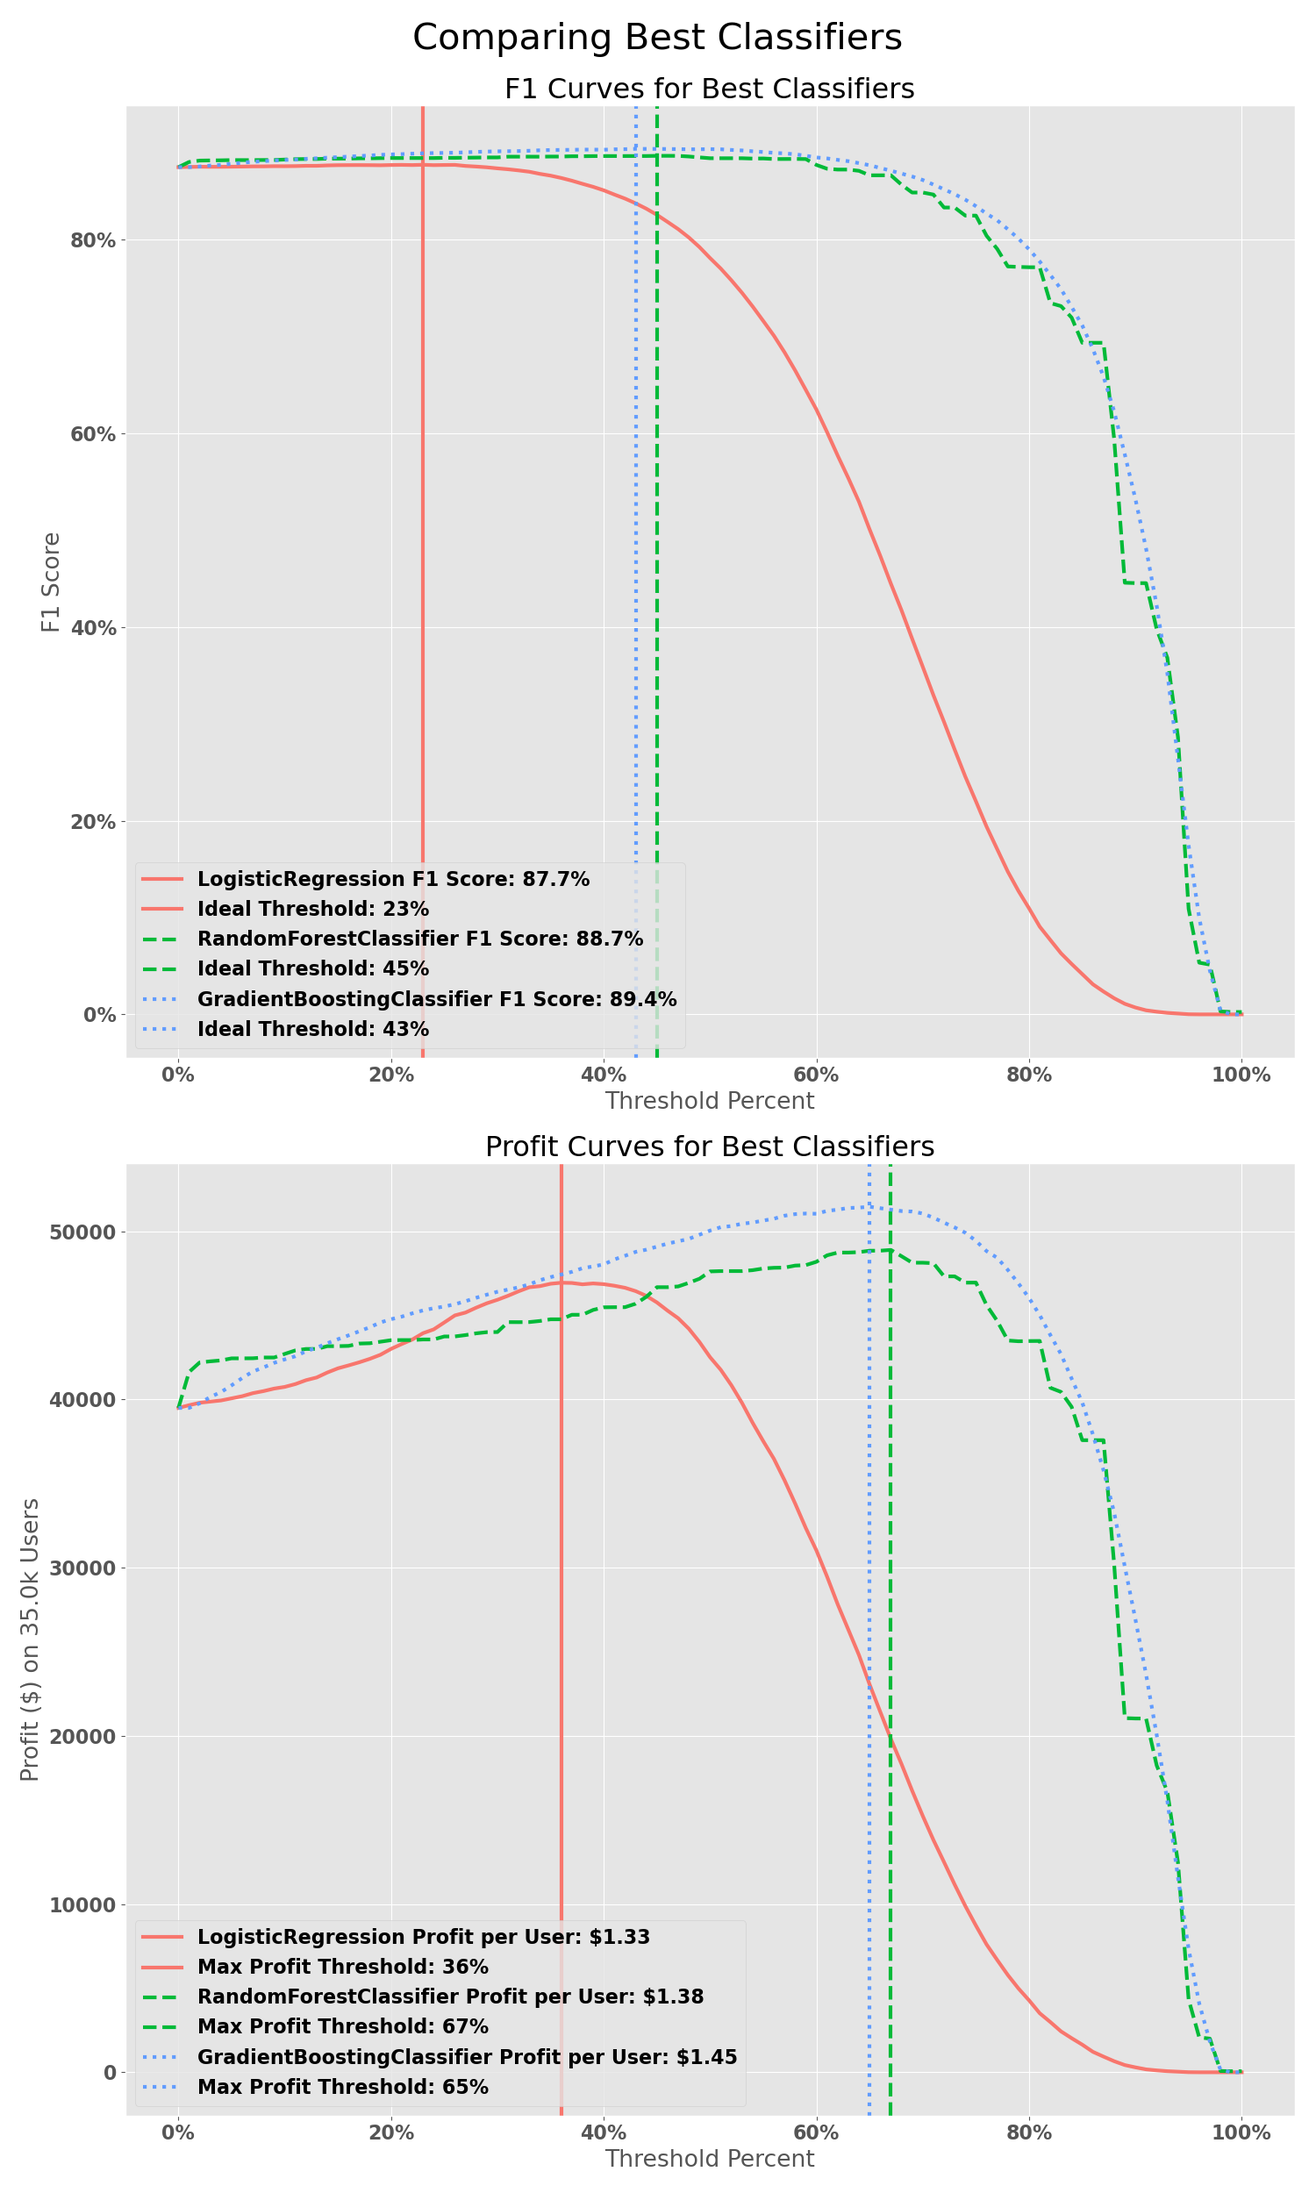
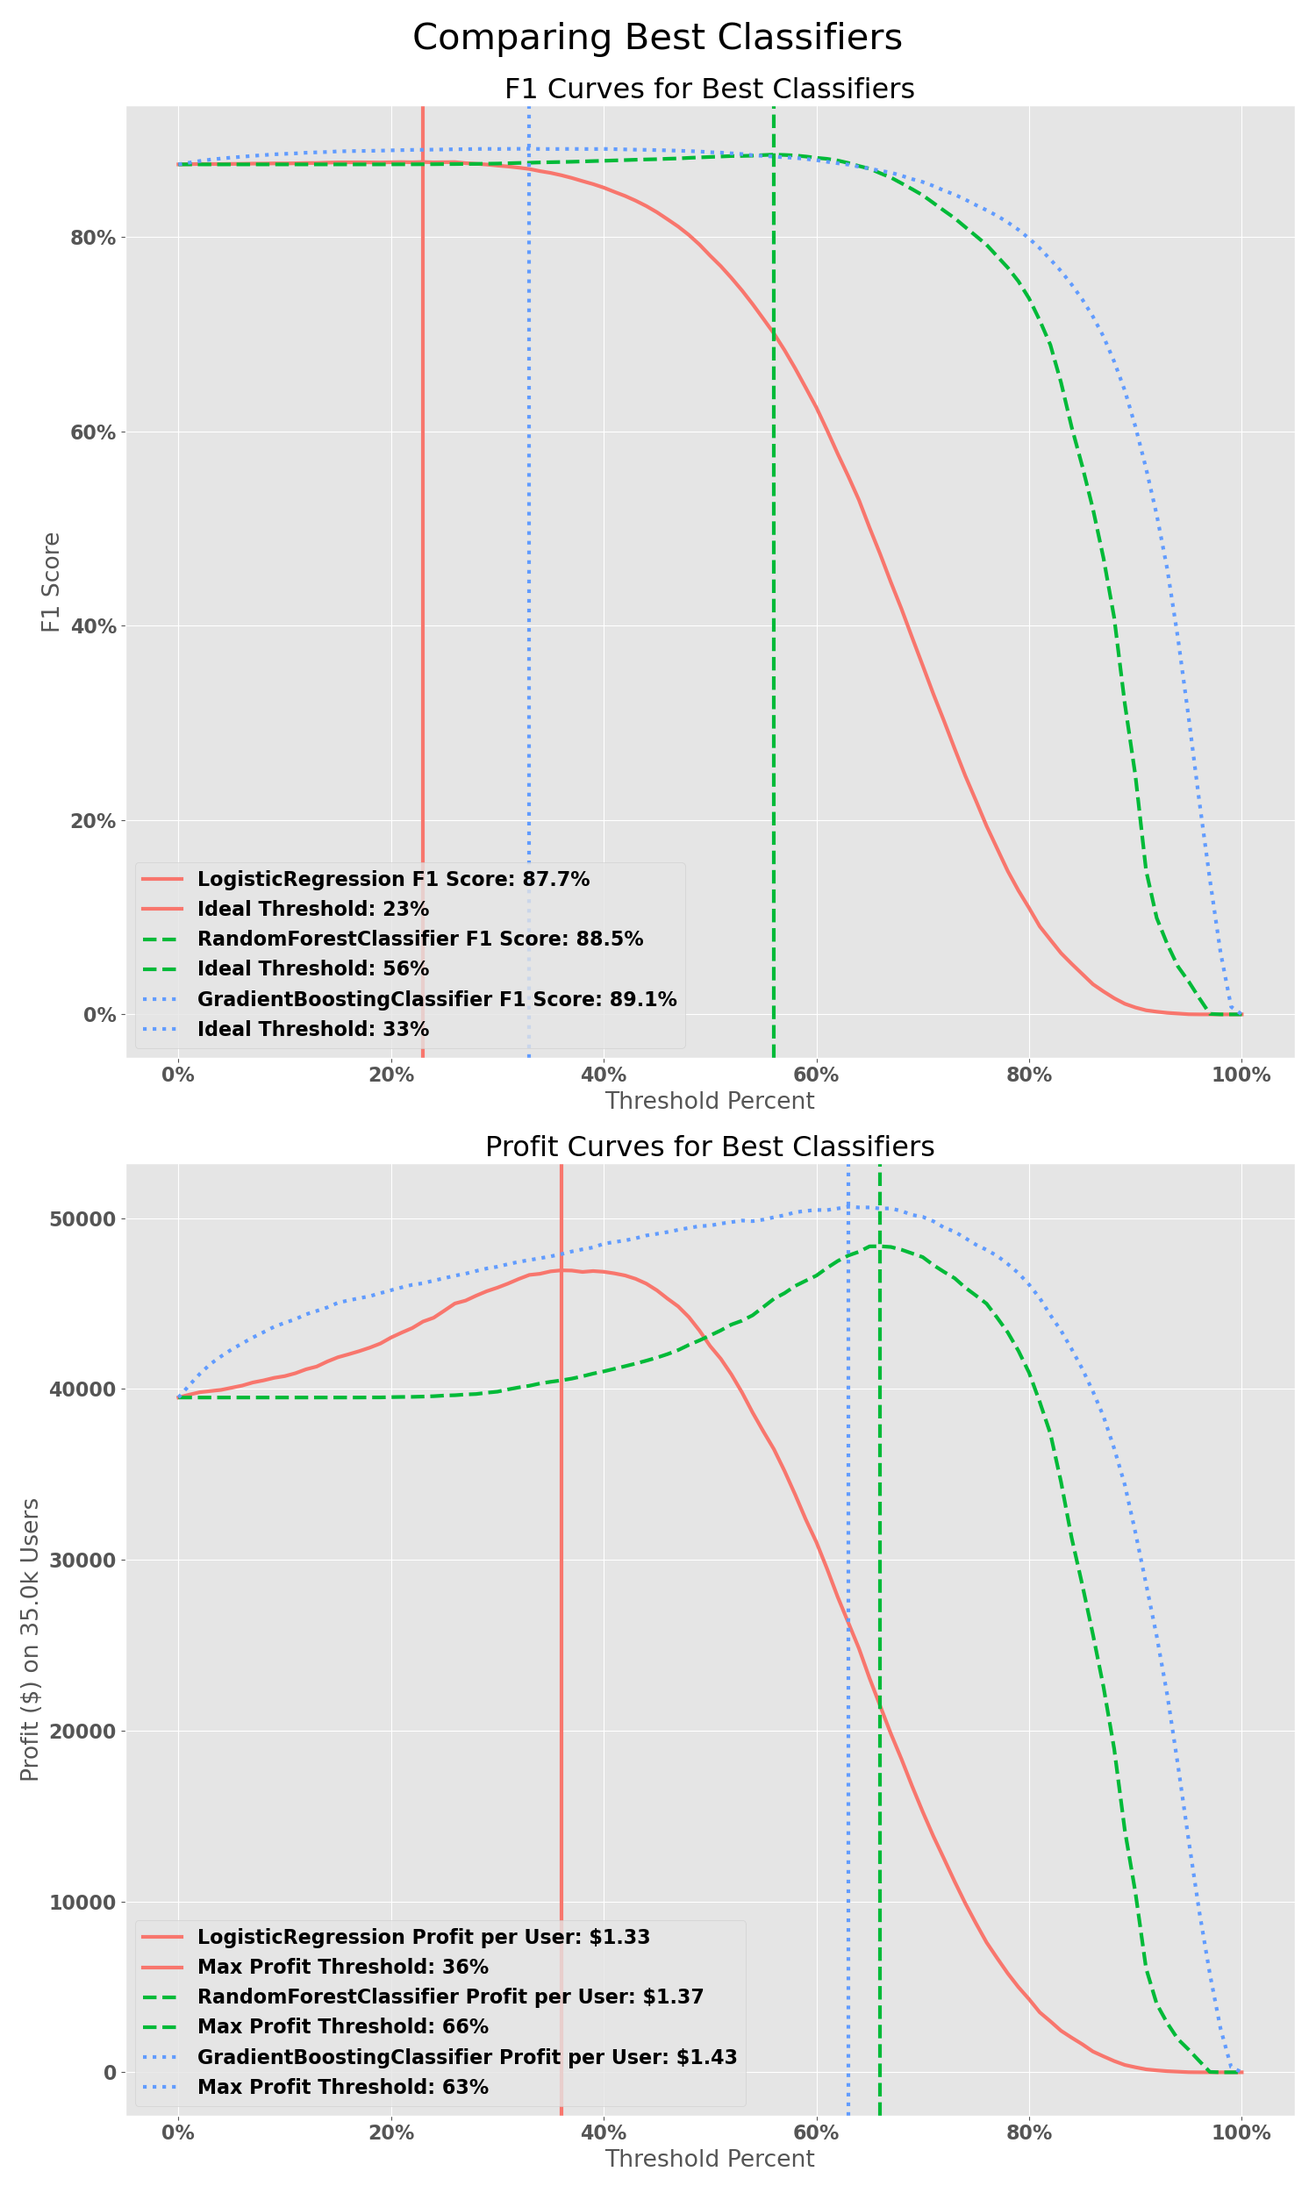
Added LR proba predictions to GB features

diff --git a/src/train_test.py b/src/train_test.py
@@ -79,26 +79,8 @@ class Churn_Model(object):
         print(f"Best {scoring_type} Score for {classifier_name}: {self.model_search.best_score_:.4f}")
 
         self.best_model = self.model_search.best_estimator_
-
-class Churn_Plot(object):
-
-    def __init__(self, classifier, X_test, y_test):
-        """ Initialize an instance of the Churn_Plot class given a classifier and number of days to use to 
-            classify a user as "churned"
-        Args:
-            classifier (sklearn model): The type of classifier to use in the model. Examples include Logisitic 
-                                        Regression, RandomForestClassifier, and GradientBoostingClassifier.
-            X_test (Pandas DataFrame): The predictor values to use in performance evaluation
-            y_test (Pandas Series): The target values to use to measure performance
-
-        Returns:
-            None
-            Instantiates a Churn_Model class 
-        """
-        self.classifier = classifier
-        self.X_test = X_test
-        self.y_test = y_test
-        self.y_probs = self.classifier.predict_proba(self.X_test)[:,1] 
+        self.y_train_probs = self.best_model.predict_proba(self.X_train)[:,1] 
+        self.y_test_probs = self.best_model.predict_proba(self.X_test)[:,1] 
 
     def plot_model_roc(self, ax, plot_kwargs={}):
         """ Plots the ROC Curve for a classifier given the test data and axis
@@ -111,10 +93,10 @@ class Churn_Plot(object):
             None
             Modifies ax by plotting the ROC curve from the best classifier.
         """
-        auc_score = roc_auc_score(self.y_test, self.y_probs)
-        fpr, tpr, threshold = roc_curve(self.y_test, self.y_probs)
+        auc_score = roc_auc_score(self.y_test, self.y_test_probs)
+        fpr, tpr, threshold = roc_curve(self.y_test, self.y_test_probs)
         roc_df = pd.DataFrame(zip(fpr, tpr, threshold), columns = ['fpr', 'tpr', 'threshold'])
-        ax.plot(roc_df.fpr, roc_df.tpr, label=f"{self.classifier.__class__.__name__} AUC={auc_score:.3f}", **plot_kwargs)
+        ax.plot(roc_df.fpr, roc_df.tpr, label=f"{self.best_model.__class__.__name__} AUC={auc_score:.3f}", **plot_kwargs)
     
     def calc_profit_curve(self, tp_cost, fp_cost):
         """ Calculates the profit for a range of thresholds given the true and false positive costs.
@@ -131,7 +113,7 @@ class Churn_Plot(object):
         threshold_list = []
 
         for threshold in thresholds:
-            y_preds = (self.y_probs >= threshold).astype(int)
+            y_preds = (self.y_test_probs >= threshold).astype(int)
             tn, fp, fn, tp = confusion_matrix(self.y_test, y_preds).ravel()
             profit = tp * tp_cost + fp * fp_cost
             profit_list.append(round(profit, 2))
@@ -155,7 +137,7 @@ class Churn_Plot(object):
 
         max_profit = max(y_axis) / len(self.X_test)
         max_profit_line = x_axis[y_axis.index(max(y_axis))]
-        classifier_name = self.classifier.__class__.__name__
+        classifier_name = self.best_model.__class__.__name__
 
         ax.plot(x_axis, y_axis, label=f"{classifier_name} Profit per User: ${max_profit:.2f}", **plot_kwargs)
         ax.axvline(x=max_profit_line, label=f"Max Profit Threshold: {max_profit_line:.0%}", **plot_kwargs)
@@ -175,14 +157,14 @@ class Churn_Plot(object):
         f1_list = []
 
         for threshold in thresholds:
-            y_preds = (self.y_probs >= threshold).astype(int)
+            y_preds = (self.y_test_probs >= threshold).astype(int)
             f1 = f1_score(self.y_test, y_preds)
             f1_list.append(f1)
             threshold_list.append(threshold)
 
         max_f1_score = max(f1_list)
         max_threshold = threshold_list[f1_list.index(max(f1_list))]
-        classifier_name = self.classifier.__class__.__name__
+        classifier_name = self.best_model.__class__.__name__
 
         ax.plot(threshold_list, f1_list, label=f"{classifier_name} F1 Score: {max_f1_score:.1%}", **plot_kwargs)
         ax.axvline(x=max_threshold
@@ -232,65 +214,51 @@ if __name__ == '__main__':
     filename = 'original_churn'
     is_feature_selection = False
     feature_list = []
-    ## Only use first order columns
-    # column_tuple = ("first_30", "city", "signup_to")
-    # first_order_columns = rf_model.X_train.columns.to_series().str.startswith(column_tuple)]
-    
-    ## Only use select columns 
-    # feature_list = ['days_since_signup'
-    #                ,'first_30_day_orders'
-    #                ,'signup_to_order_hours'
         
     split_data = load_X_y(bucket_name, filename, is_feature_selection, feature_list)
 
     lr_model = Churn_Model(LogisticRegression(), split_data)
-    rf_model = Churn_Model(RandomForestClassifier(), split_data)
-    gb_model = Churn_Model(GradientBoostingClassifier(), split_data)
-
-    lr_model.convert_cat_to_int()
-    rf_model.convert_cat_to_int()
-    gb_model.convert_cat_to_int()
-    
     logistic_regression_grid = {'penalty': ['l1', 'l2']
                             ,'fit_intercept': [True, False]
                             ,'class_weight': [None, 'balanced']
                             ,'solver': ['liblinear']
-                            ,'max_iter': [50,100,200,500]
+                            ,'max_iter': [200,500]
                             }
-    
+    lr_model.convert_cat_to_int()
+    lr_model.fit_model(logistic_regression_grid, GridSearchCV, 'roc_auc')
+     
+    rf_model = Churn_Model(RandomForestClassifier(), split_data)
     random_forest_grid = {'max_depth': [2, 4, 8]
                         ,'max_features': ['sqrt', 'log2', None]
                         ,'min_samples_leaf': [1, 2, 4]
                         ,'min_samples_split': [2, 4]
                         ,'bootstrap': [True, False]
                         ,'n_estimators': [5,10,25,50,100,200]}
+    rf_model.fit_model(random_forest_grid, RandomizedSearchCV, 'roc_auc')
     
+    split_data[0]['lr_predictions'] = lr_model.y_train_probs
+    split_data[1]['lr_predictions'] = lr_model.y_test_probs
+    
+    gb_model = Churn_Model(GradientBoostingClassifier(), split_data)
     gradient_boosting_grid = {'learning_rate': [0.01, 0.05, 0.1, 0.2, 0.25]
                             ,'max_depth': [2, 4, 8]
-                            ,'subsample': [0.25, 0.5, 0.75, 1.0]
-                            ,'min_samples_leaf': [1, 2, 4]
                             ,'max_features': ['sqrt', 'log2', None]
+                            ,'min_samples_leaf': [1, 2, 4]
+                            ,'subsample': [0.25, 0.5, 0.75, 1.0]
                             ,'n_estimators': [5,10,25,50,100,200,250]}
-    
-    lr_model.fit_model(logistic_regression_grid, GridSearchCV, 'roc_auc')
-    rf_model.fit_model(random_forest_grid, RandomizedSearchCV, 'roc_auc')
     gb_model.fit_model(gradient_boosting_grid, RandomizedSearchCV, 'roc_auc')
-
-    X_test = split_data[1]
-    y_test = split_data[3]
 
     lr_plot_kwargs = {'linestyle':'-', 'linewidth': 3, 'color': '#F8766D'}
     rf_plot_kwargs = {'linestyle':'--', 'linewidth': 3, 'color': '#00BA38'}
     gb_plot_kwargs = {'linestyle':':', 'linewidth': 3, 'color': '#619CFF'}
     
-    classifiers = [lr_model.best_model, rf_model.best_model, gb_model.best_model]
+    classifiers = [lr_model, rf_model, gb_model]
     classifier_plot_kwargs = [lr_plot_kwargs, rf_plot_kwargs, gb_plot_kwargs]
 
     fig, ax = plt.subplots(figsize=(15,15))
     
     for classifier, kwargs in zip(classifiers, classifier_plot_kwargs):
-        model_plot = Churn_Plot(classifier, X_test, y_test)
-        model_plot.plot_model_roc(ax, kwargs)             
+        classifier.plot_model_roc(ax, kwargs)             
 
     ax.legend(loc='lower right')
     ax.yaxis.set_major_formatter(PercentFormatter(xmax=1.0))
@@ -306,9 +274,8 @@ if __name__ == '__main__':
     
     for classifier, kwargs in zip(classifiers, classifier_plot_kwargs):
         
-        model_plot = Churn_Plot(classifier, X_test, y_test)
-        model_plot.plot_f1_curve(axs[0], kwargs)             
-        model_plot.plot_profit_curve(axs[1], kwargs, tp_cost=2.99)
+        classifier.plot_f1_curve(axs[0], kwargs)             
+        classifier.plot_profit_curve(axs[1], kwargs, tp_cost=2.99)
     
     axs[0].legend(loc='lower left')
     axs[0].set_title(f"F1 Curves for Best Classifiers")                                                                    

diff --git a/src/best_model.py b/src/best_model.py
@@ -7,6 +7,7 @@ font = {'weight': 'bold'
        ,'size': 16}
 plt.rc('font', **font)
 from matplotlib.ticker import PercentFormatter, StrMethodFormatter
+from sklearn.linear_model import LogisticRegression
 from sklearn.ensemble import RandomForestClassifier, GradientBoostingClassifier
 from sklearn.inspection import plot_partial_dependence
 from sklearn.metrics import confusion_matrix, roc_auc_score, roc_curve, f1_score
@@ -26,6 +27,16 @@ if __name__ == '__main__':
     churn_model.convert_cat_to_int()
     X_train, X_test, y_train, y_test = churn_model.X_train, churn_model.X_test, churn_model.y_train, churn_model.y_test
     
+    best_lr = LogisticRegression(class_weight='balanced'
+                                ,fit_intercept=True
+                                ,max_iter=100
+                                ,penalty='l2'
+                                ,solver='liblinear')
+    
+    best_lr.fit(X_train, y_train)
+    X_train['lr_predictions'] = best_lr.predict_proba(X_train)[:,1]
+    X_test['lr_predictions'] = best_lr.predict_proba(X_test)[:,1]
+
     best_model = GradientBoostingClassifier(subsample=0.25
                                            ,n_estimators=200
                                            ,min_samples_leaf=2
@@ -34,19 +45,22 @@ if __name__ == '__main__':
                                            ,learning_rate=0.05)
 
     best_model.fit(X_train, y_train)
+
+    print(best_model.score(X_test, y_test))
+
     
-    feature_dict = {}
-    for feature, importance in zip(X_test.columns, best_model.feature_importances_):
-        feature_dict[feature] = importance
+    # feature_dict = {}
+    # for feature, importance in zip(X_test.columns, best_model.feature_importances_):
+    #     feature_dict[feature] = importance
 
-    print("| Feature                        | Importance % |  ")
-    print("|--------------------------------|--------------| ")
-    for feature in sorted(feature_dict, key=feature_dict.__getitem__, reverse=True):
-        print(f"| {feature.replace('_', ' ').title()} | {feature_dict[feature]:.1%} |")
+    # print("| Feature                        | Importance % |  ")
+    # print("|--------------------------------|--------------| ")
+    # for feature in sorted(feature_dict, key=feature_dict.__getitem__, reverse=True):
+    #     print(f"| {feature.replace('_', ' ').title()} | {feature_dict[feature]:.1%} |")
 
-    my_plot = plot_partial_dependence(best_model
-                                    ,features=[i for i in range(0,len(X_train.columns.tolist()))]
-                                    ,X=X_train
-                                    ,n_cols=4
-                                    ,feature_names=X_train.columns.tolist())
-    plt.show()
+    # my_plot = plot_partial_dependence(best_model
+    #                                 ,features=[i for i in range(0,len(X_train.columns.tolist()))]
+    #                                 ,X=X_train
+    #                                 ,n_cols=4
+    #                                 ,feature_names=X_train.columns.tolist())
+    # plt.show()

diff --git a/README.md b/README.md
@@ -55,6 +55,8 @@ Most of my data cleaning occurred when I was writing the query itself, which inc
 * Converting NaNs to -1 for ratings and 0 for late orders.
 * Calculating 30 day and last order metrics
 
+In order to use categorical string features like `city_name` or `acquisition_category` in my machine learning models, I needed to encode them to numerical features. I decided to use ordinal encoding where each label was assigned an integer from 0 to the # of unique labels.
+
 ## EDA
 My first step in EDA was to look at how churned and active user profiles differ along continuous and categorical predictors. In order to visualize their differences, I decided to use Kernel Density Estimates (KDE) plots for continuous variables and 100% Fill Bar Charts for categorical variables.
 
@@ -81,9 +83,98 @@ As you can see, there is very little difference in the best performing Gradient 
 
 ## Model Tuning & Performance
 
-In order to determine the best classifier to use along with the optimal hyperparameters, I used a combination of `GridSearchCV` on the Logistic Regression classifier and `RandomizedSearchCV` on the Random Forest and Gradient Boosting classifers. 
+My first step in determining the best classifier to use was to iterate through various hyperparameters to find which ones would give me the best result. I used a combination of `GridSearchCV` on the Logistic Regression classifier and `RandomizedSearchCV` on the Random Forest and Gradient Boosting classifers with the following hyperparameters: 
 
-![F1 Score and Profit Curve](images/original_roc_curves.png)
+<table>
+    <thead>
+        <tr>
+            <th>Classifier</th>
+            <th>Hyperparameters</th>
+            <th>Values</th>
+        </tr>
+    </thead>
+    <tbody>
+        <tr>
+            <td rowspan=5>Logisitic Regression</td>
+            <td>`penalty`</td>
+            <td>['l1', 'l2']</td>
+        </tr>
+        <tr>
+            <td>fit_intercept</td>
+            <td>[True, False]</td>
+        </tr>
+        <tr>
+            <td>class_weight</td>
+            <td>[None, 'Balanced']</td>
+        </tr>
+        <tr>
+            <td>solver</td>
+            <td>['liblinear']</td>
+        </tr>
+        <tr>
+            <td>max_iter</td>
+            <td>[200,500]</td>
+        </tr>
+        <tr>
+            <td rowspan=6>Random Forest</td>
+            <td>max_depth</td>
+            <td>[2, 4, 8]</td>
+        </tr>
+        <tr>
+            <td>max_features</td>
+            <td>['sqrt', 'log2', None]</td>
+        </tr>
+        <tr>
+            <td>min_samples_leaf</td>
+            <td>[1, 2, 4]</td>
+        </tr>
+        <tr>
+            <td>min_samples_split</td>
+            <td>[2, 4]</td>
+        </tr>
+        <tr>
+            <td>bootstrap</td>
+            <td>[True, False]</td>
+        </tr>
+        <tr>
+            <td>n_estimators</td>
+            <td>[5, 10, 25, 50, 100, 200]</td>
+        </tr>
+        <tr>
+            <td rowspan=6>Gradient Boosting</td>
+            <td>learning_rate</td>
+            <td>[0.01, 0.05, 0.1, 0.2, 0.25]</td>
+        </tr>
+        <tr>
+            <td>max_depth</td>
+            <td>[2, 4, 8]</td>
+        </tr>
+        <tr>
+            <td>max_features</td>
+            <td>['sqrt', 'log2', None]</td>
+        </tr>
+        <tr>
+            <td>min_samples_leaf</td>
+            <td>[1, 2, 4]</td>
+        </tr>
+        <tr>
+            <td>subsample</td>
+            <td>[0.25, 0.5, 0.75, 1.0]</td>
+        </tr>
+        <tr>
+            <td>n_estimators</td>
+            <td>[5, 10, 25, 50, 100, 200, 250]</td>
+        </tr>
+    </tbody>
+</table>
+
+After each iteration of finding the optimal hyperparameters, I took the results from the best model of predicting the probability of the positive class and added it to my features for training the next classifier. This had significant improvements on the Random Forest and Gradient Boosting classifiers.
+
+I decided to use the ROC AUC score to compare my models and plotting each one against the other. My best model achieved an AUC score of 0.XX on unseen data.
+
+![ROC Curve](images/original_roc_curves.png)
+
+Next, I wanted to look at which features contributed most to my model by comparing their feature importances. On the left side of the table are my feature importances using the original dataset. After looking at these and comparing them to the KDE plots, I realized it might not matter what rating you give a meal or driver so much as IF you gave either a rating. I re-engineered my features to change ratings from int/float to booleans and re-ran the feature importances, also removing less important features like City Group, Subscription User, First Order Delivered On-Time, and Foreign User.
 
 <table>
 <tr><th> Original Dataset </th> <th> Boolean Dataset </th></tr>
@@ -116,7 +207,7 @@ In order to determine the best classifier to use along with the optimal hyperpar
 | First Order Median Meal Rating | 0.2% |
 | First Order Delivered On Time | 0.1% |
         
-</td><td>
+</td><td style="vertical-align:top">
 
 | Feature                        | Importance % |
 |--------------------------------|--------------|
@@ -138,12 +229,6 @@ In order to determine the best classifier to use along with the optimal hyperpar
 | Has First Order Avg Meal Rating | 0.2% |
 | Has First 30 Day Driver Tips | 0.1% |
 | Has First Order Driver Tips | 0.0% |
-| | |
-| | |
-| | |
-| | |
-| | |
-| | |
         
 </td></tr>
 </table>
